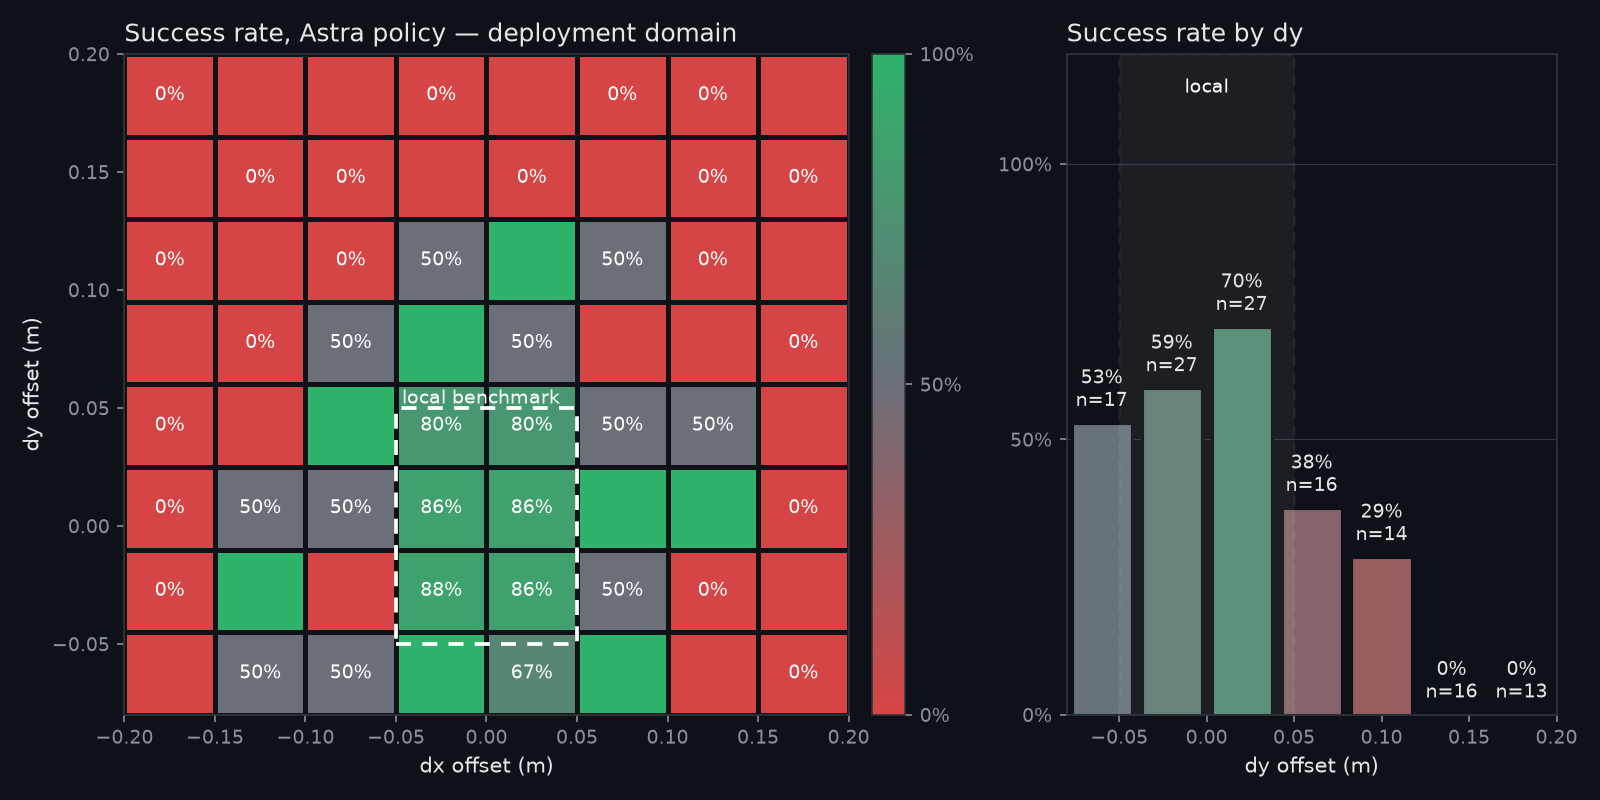
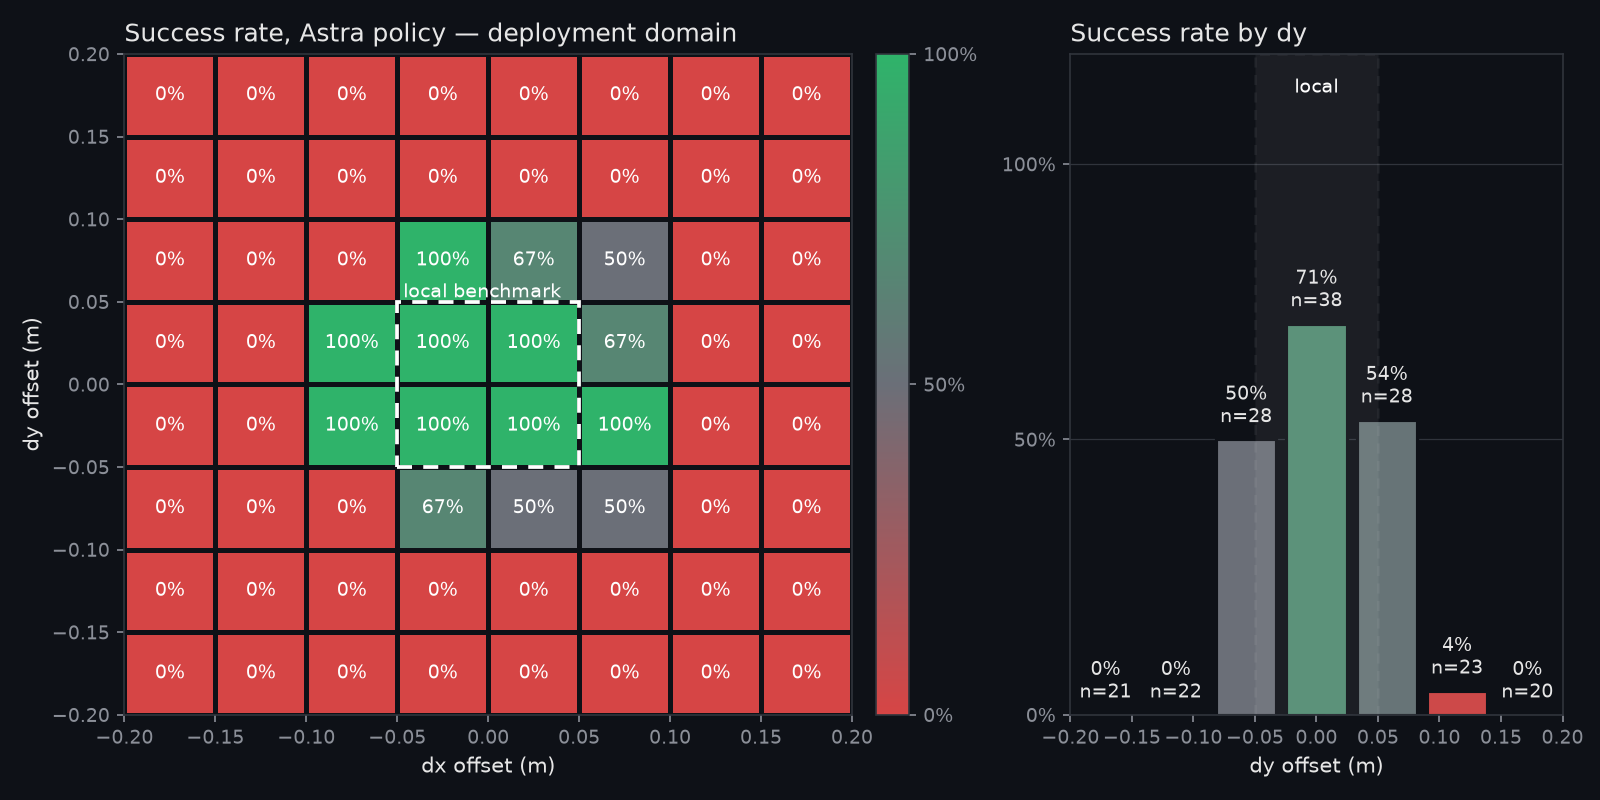
Real MuJoCo results: heatmap, README/video numbers, featured clips + Astra quote; app reloads runner.sample (stale box), 3-column clip row

diff --git a/app/streamlit_app.py b/app/streamlit_app.py
@@ -19,8 +19,11 @@ sys.path.insert(0, str(ROOT))
 RESULTS = ROOT / "results"
 
 import analysis.coverage  # noqa: E402
+import runner.sample  # noqa: E402
 
 # Streamlit reruns this script but keeps imported modules; reload so edits to the analysis show up.
+# runner.sample first: it defines the boxes that analysis.coverage reads.
+importlib.reload(runner.sample)
 importlib.reload(analysis.coverage)
 from analysis.coverage import coverage_report, default_boxes, heatmap, inside_local  # noqa: E402
 
@@ -38,12 +41,15 @@ p.gh-back, .stMarkdown p.gh-back {color: #c3c7cf; font-size: 1.1rem !important; 
 .gh-tile .lbl {color: #8b8f98; font-size: .8rem; text-transform: uppercase; letter-spacing: .04em;}
 .gh-tile .val {font-size: 2.6rem; font-weight: 700; line-height: 1.1;}
 .gh-tile .n {color: #8b8f98; font-size: .8rem;}
-.gh-ph {background: #2a2d34; color: #8b8f98; border-radius: 8px; height: 170px;
+.gh-ph {background: #2a2d34; color: #8b8f98; border-radius: 8px; height: 190px;
         display: flex; align-items: center; justify-content: center; text-align: center; padding: 1rem;}
 .gh-report {font-size: 1rem; line-height: 1.55;}
 .gh-src {color: #8b8f98; font-size: .75rem;}
 .gh-foot {color: #8b8f98; font-size: .85rem; border-top: 1px solid #30343c; padding-top: .6rem; margin-top: .8rem;}
-video {max-height: 240px;}
+video {max-height: 190px;}
+.gh-head {color: #e6e6e6; font-size: .95rem; border-left: 3px solid #d64545; padding: .2rem .6rem; margin: .3rem 0 .5rem 0;}
+.gh-quote {color: #e6e6e6; border-left: 3px solid #6b6f78; margin: 0 0 .6rem 0; padding: .2rem .7rem;}
+.gh-quote span {color: #8b8f98; font-size: .8rem;}
 h3 {padding: .4rem 0 .3rem 0 !important;}
 </style>
 """,
@@ -113,8 +119,7 @@ def load_data() -> tuple[pd.DataFrame, pd.DataFrame, str]:
 
 
 @st.cache_data
-def _heatmap_png(df: pd.DataFrame, path: str, code_mtime: float) -> bytes | None:
-    lb, db = default_boxes()
+def _heatmap_png(df: pd.DataFrame, path: str, code_mtime: float, lb: dict, db: dict) -> bytes | None:
     heatmap(df, local_box=lb, deploy_box=db, path=path)
     return Path(path).read_bytes()
 
@@ -148,6 +153,22 @@ def pick_clip(df: pd.DataFrame, want_success: bool, box: dict) -> dict | None:
     return None
 
 
+def _clip_caption(clip: Path) -> str | None:
+    """Caption from the clip's own transcript (results/transcripts/<hash>.json), if there is one."""
+    t = RESULTS / "transcripts" / f"{clip.stem}.json"
+    try:
+        d = _transcript(str(t), _mtime(t)) if t.exists() else None
+    except Exception:
+        return None
+    if not isinstance(d, dict) or "params" not in d:
+        return None
+    p, o = d["params"], d.get("outcome") or {}
+    res = "success" if o.get("success") else (o.get("failure_mode") or "failure")
+    extra = f" · depth {o['depth_mm']:.1f} mm · lateral {o['lateral_mm']:.1f} mm" if "lateral_mm" in o else ""
+    return (f"dx={p['dx']:+.3f} m · dy={p['dy']:+.3f} m · yaw={p['yaw']:+.0f}° · {res}{extra}"
+            f" · {o.get('api_calls', len(d.get('steps', [])))} API calls")
+
+
 def show_clip(row: dict | None, path_override: str | None, empty_msg: str) -> None:
     clip = _resolve(path_override) if path_override else (_resolve(row.get("clip")) if row else None)
     if clip is None:
@@ -157,9 +178,12 @@ def show_clip(row: dict | None, path_override: str | None, empty_msg: str) -> No
         st.image(str(clip), width="stretch")
     else:
         st.video(str(clip))
-    if row:
+    cap = _clip_caption(clip)
+    if cap:
+        st.caption(cap)
+    elif row and not path_override:
         st.caption(f"dx={row['dx']:+.3f} m · dy={row['dy']:+.3f} m · yaw={row['yaw']:+.0f}° · "
-                   f"{row.get('failure_mode') or 'success'} · {int(row.get('n_decisions', 0))} Astra calls")
+                   f"{row.get('failure_mode') or 'success'} · {int(row.get('n_decisions', 0))} API calls")
 
 
 def _trim(v, limit=1500):
@@ -281,7 +305,7 @@ with left:
     hm_path = RESULTS / ("heatmap.png" if source == "real" else "heatmap_fake.png")
     all_df = pd.concat([local_df, deploy_df], ignore_index=True)
     try:
-        png = _heatmap_png(all_df, str(hm_path), _mtime(ROOT / "analysis" / "coverage.py")) if len(all_df) else None
+        png = _heatmap_png(all_df, str(hm_path), _mtime(ROOT / "analysis" / "coverage.py"), lb, db) if len(all_df) else None
     except Exception as e:
         png = None
         st.caption(f"Heatmap failed: {e}")
@@ -293,7 +317,7 @@ with right:
     st.subheader("Gap report")
     st.markdown(f'<div class="gh-report">{html.escape(rep["text"])}</div>', unsafe_allow_html=True)
     st.markdown(f'<p class="gh-src">Data: {source} · coverage = box {" × ".join(rep["coverage_params"])}, '
-                f'local ∕ deployment ({rep["coverage_fraction_all_params"]:.1%} with yaw).</p>', unsafe_allow_html=True)
+                f'local ∕ deployment ({rep["coverage_fraction_all_params"]:.1%} without yaw folding).</p>', unsafe_allow_html=True)
     if st.button("Re-run coverage (10 trials, deployment box)", type="primary"):
         try:
             new = rerun_coverage(10)
@@ -306,7 +330,7 @@ with right:
         st.caption(f"Includes {len(st.session_state['extra'])} re-run trials from this session.")
 
 feat = _featured()
-c1, c2 = st.columns(2, gap="medium")
+c1, c2, c3 = st.columns(3, gap="medium")
 with c1:
     st.subheader("In the benchmark")
     ok_row = pick_clip(pd.concat([local_df, deploy_df], ignore_index=True), True, lb)
@@ -315,7 +339,15 @@ with c2:
     st.subheader("Outside the benchmark")
     bad_row = pick_clip(deploy_df, False, lb)
     show_clip(bad_row, feat.get("failure_clip"), "Failure clip renders here once Agent 1 records one.")
+with c3:
+    st.subheader("Why it failed")
+    if feat.get("headline"):
+        st.markdown(f'<div class="gh-head">{html.escape(feat["headline"])}</div>', unsafe_allow_html=True)
     with st.expander("What Astra was thinking"):
+        if feat.get("quote"):
+            st.markdown(f'<blockquote class="gh-quote">“{html.escape(feat["quote"])}”'
+                        f'<br><span>— Astra, in the reply that wrote policy.py</span></blockquote>',
+                        unsafe_allow_html=True)
         show_transcript(feat.get("failure_transcript") or (bad_row or {}).get("transcript"))
 
 st.markdown(

diff --git a/README.md b/README.md
@@ -31,19 +31,19 @@ benchmarks yet.
 
 | | success | n |
 |---|---|---|
-| Local benchmark box | **{local_success}** | {n_local} |
-| Deployment box | **{deploy_success}** | {n_deploy} |
-| Deployment, outside the local box | **{outside_success}** | {n_outside} |
+| Local benchmark box | **100%** | 30 |
+| Deployment box | **18%** | 150 |
+| Deployment, outside the local box | **16%** | 146 |
 
-{gap_paragraph}
+The local benchmark covers 2.1% of the deployment domain by volume (dx × dy × yaw; yaw folded to ±45° by the peg symmetry). The policy succeeds on 100% of local trials (n=30) and 18% of deployment trials (n=150); outside the local box it succeeds on 16% (n=146). Failures concentrate in: dx ∈ [-0.20, -0.13] m (0%, n=25); dx ∈ [+0.13, +0.20] m (0%, n=25); dy ∈ [-0.20, -0.13] m (0%, n=25); dy ∈ [-0.13, -0.07] m (0%, n=25). A benchmark that stopped at the local box would have reported 100% and shipped.
 
-Yaw is folded to ±45° because the square peg has 90° symmetry ({coverage_all} without folding).
+Yaw is folded to ±45° because the square peg has 90° symmetry (1.0% without folding).
 
 ## How to reproduce
 
 ```bash
-.venv/bin/python -m runner.batch --box local  --n {rows_local} --tag local
-.venv/bin/python -m runner.batch --box deploy --n {rows_deploy} --tag deploy --render-failures 4
+.venv/bin/python -m runner.batch --box local  --n 30 --tag local
+.venv/bin/python -m runner.batch --box deploy --n 150 --tag deploy --render-failures 4
 .venv/bin/python -m analysis.fill_docs
 .venv/bin/streamlit run app/streamlit_app.py
 ```
@@ -53,7 +53,7 @@ Setup: `sim/README.md`.
 ## Limitations
 
 - One task, one policy, simulation only.
-- n = {n_deploy}, so heatmap cells are noisy.
+- n = 150, so heatmap cells are noisy.
 - Coverage is unweighted box volume.
 - `hole_pose()` is a modelled camera calibrated on the local region. Its radial-distortion error grows
   as r³ (0.3 mm at 5 cm, 15 mm at 20 cm), a model we chose to mirror AIC.

diff --git a/VIDEO_SCRIPT.md b/VIDEO_SCRIPT.md
@@ -9,11 +9,11 @@ Before recording: `streamlit run app/streamlit_app.py`, browser at least 1280 px
 |---|---|---|
 | 0–15 s | "In June our robot policy scored 141 on our own benchmark and 89 on the hidden one. The benchmark never tested the far placements." | Page title and the backstory line. |
 | 15–35 s | "GapHunter samples the deployment domain, runs the policy — here, one Astra wrote for a UR5e peg-in-hole — and maps where it breaks." | Click **Re-run coverage**. Show the progress bar. Then the heatmap and the dashed box. |
-| 35–50 s | "Inside the box, {local_success}. Outside, {outside_success}. Here's the failure, and here's what Astra thought it was doing." | Point at the tiles. Play the failure clip. Open **What Astra was thinking**. |
+| 35–50 s | "Inside the box, 100%. Outside, 16%. Here's the failure, and here's what Astra thought it was doing." | Point at the tiles. Play the failure clip. Open **What Astra was thinking**. |
 | 50–60 s | "Four-nines reliability is the job. You can't get there on a benchmark that stops here." | Hover the dashed rectangle. Cut. |
 
-Numbers on screen for reference: benchmark covers {coverage} of the deployment domain · deployment
-success {deploy_success} (n={n_deploy}) · local n={n_local} · outside n={n_outside}.
+Numbers on screen for reference: benchmark covers 2.1% of the deployment domain · deployment
+success 18% (n=150) · local n=30 · outside n=146.
 
 ## Re-run during recording
 
